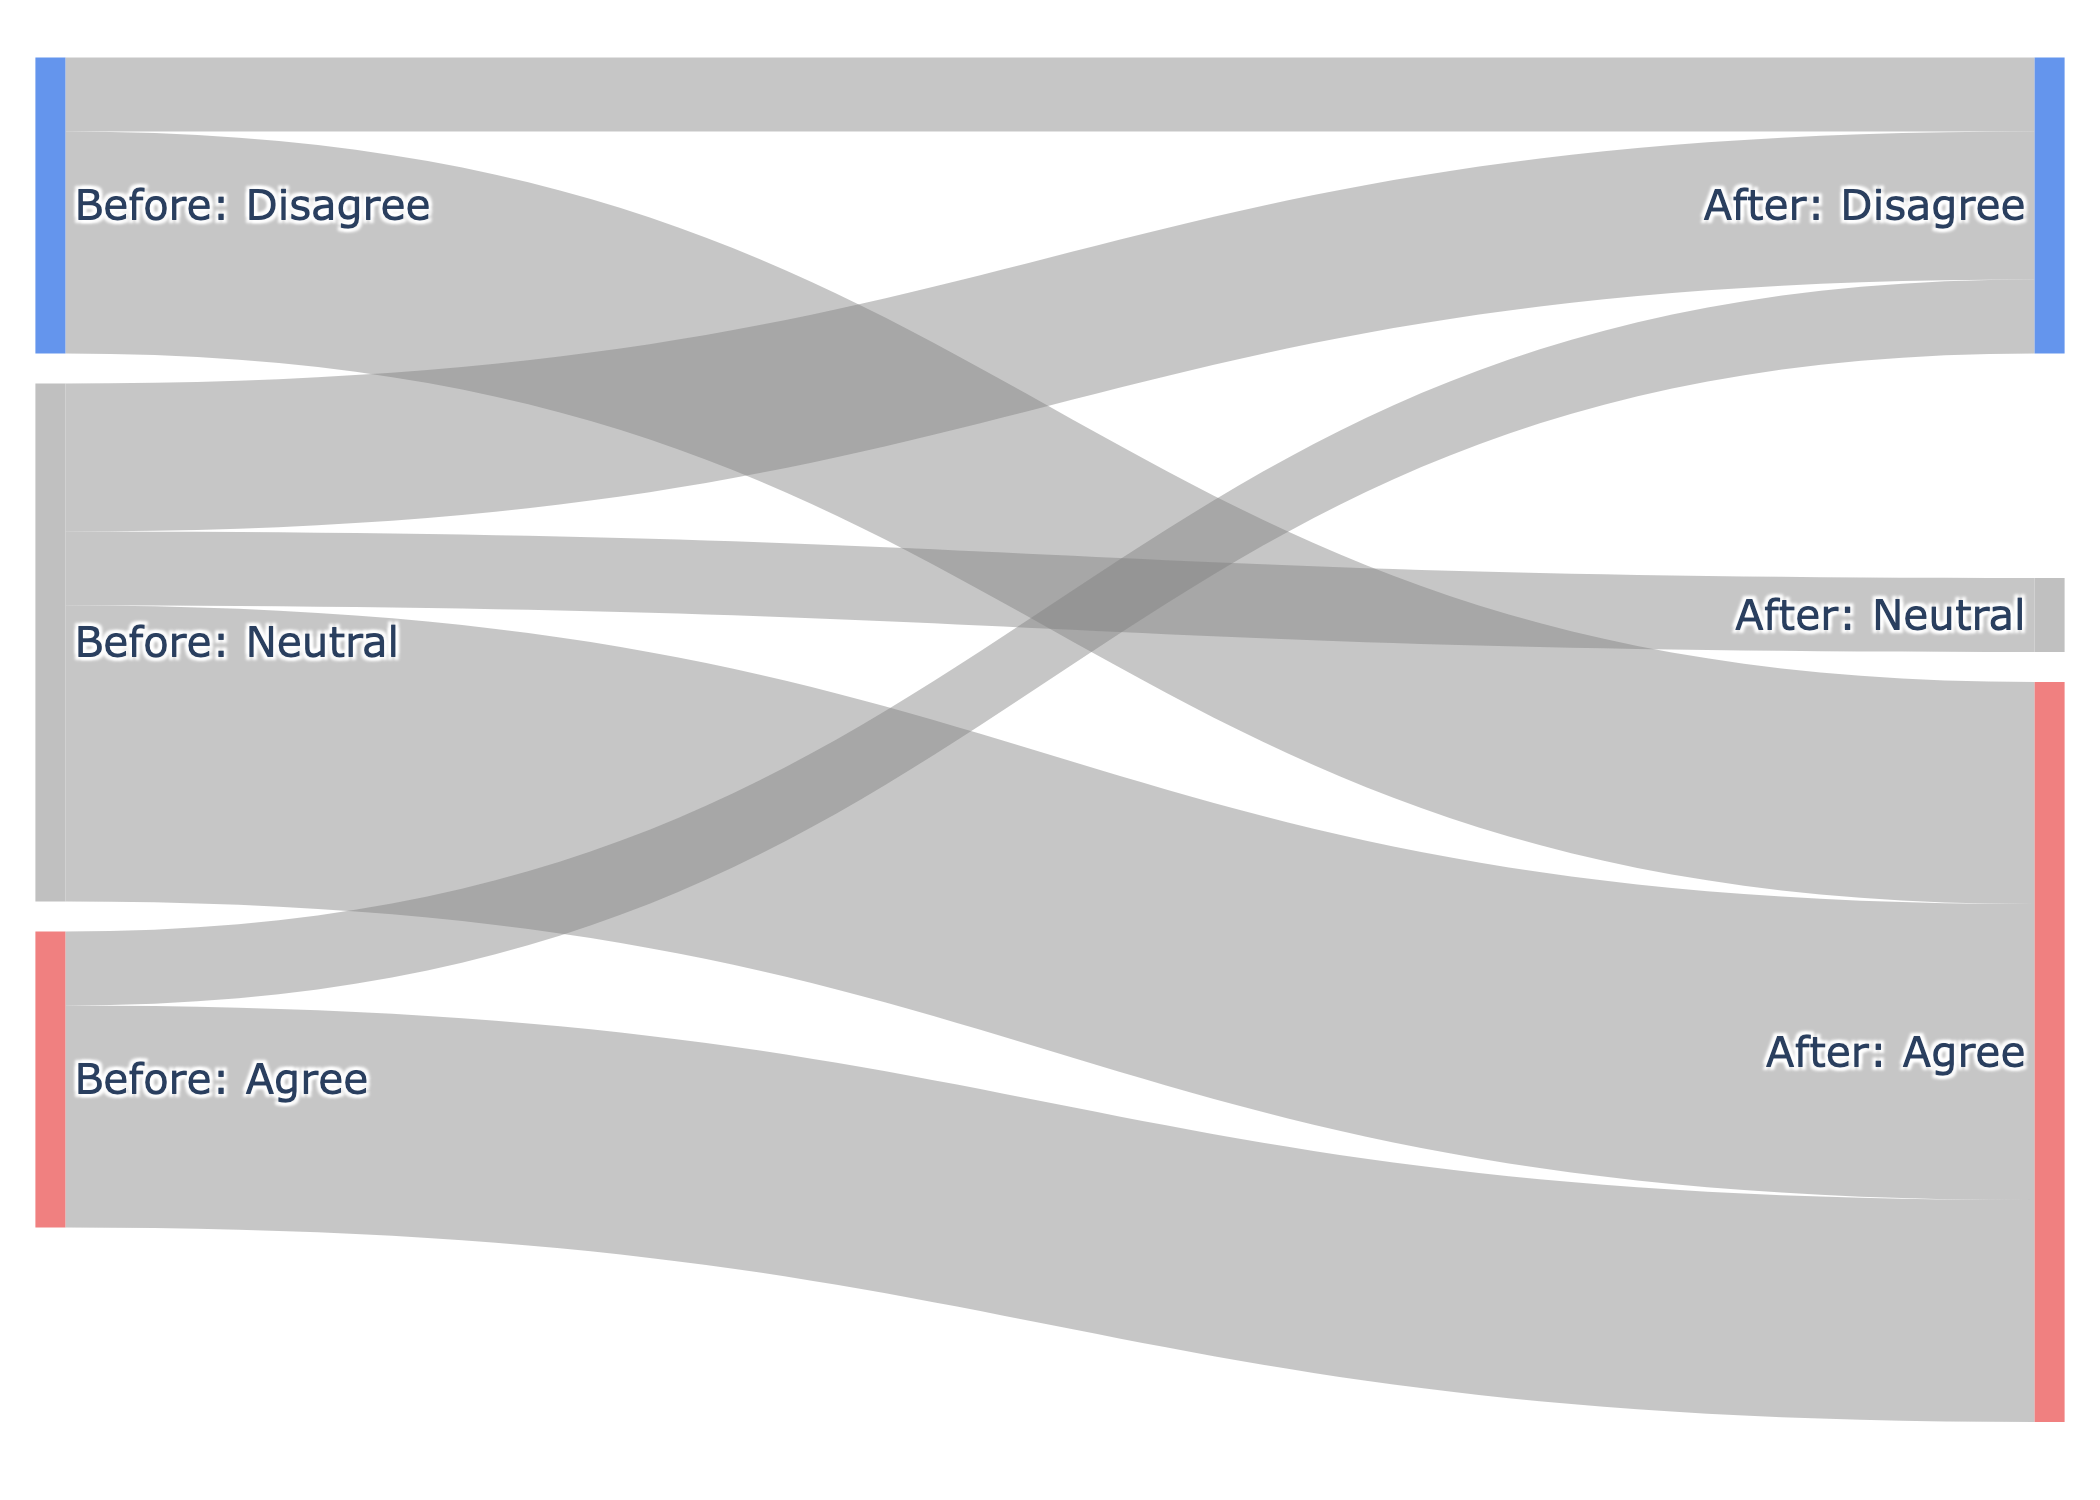
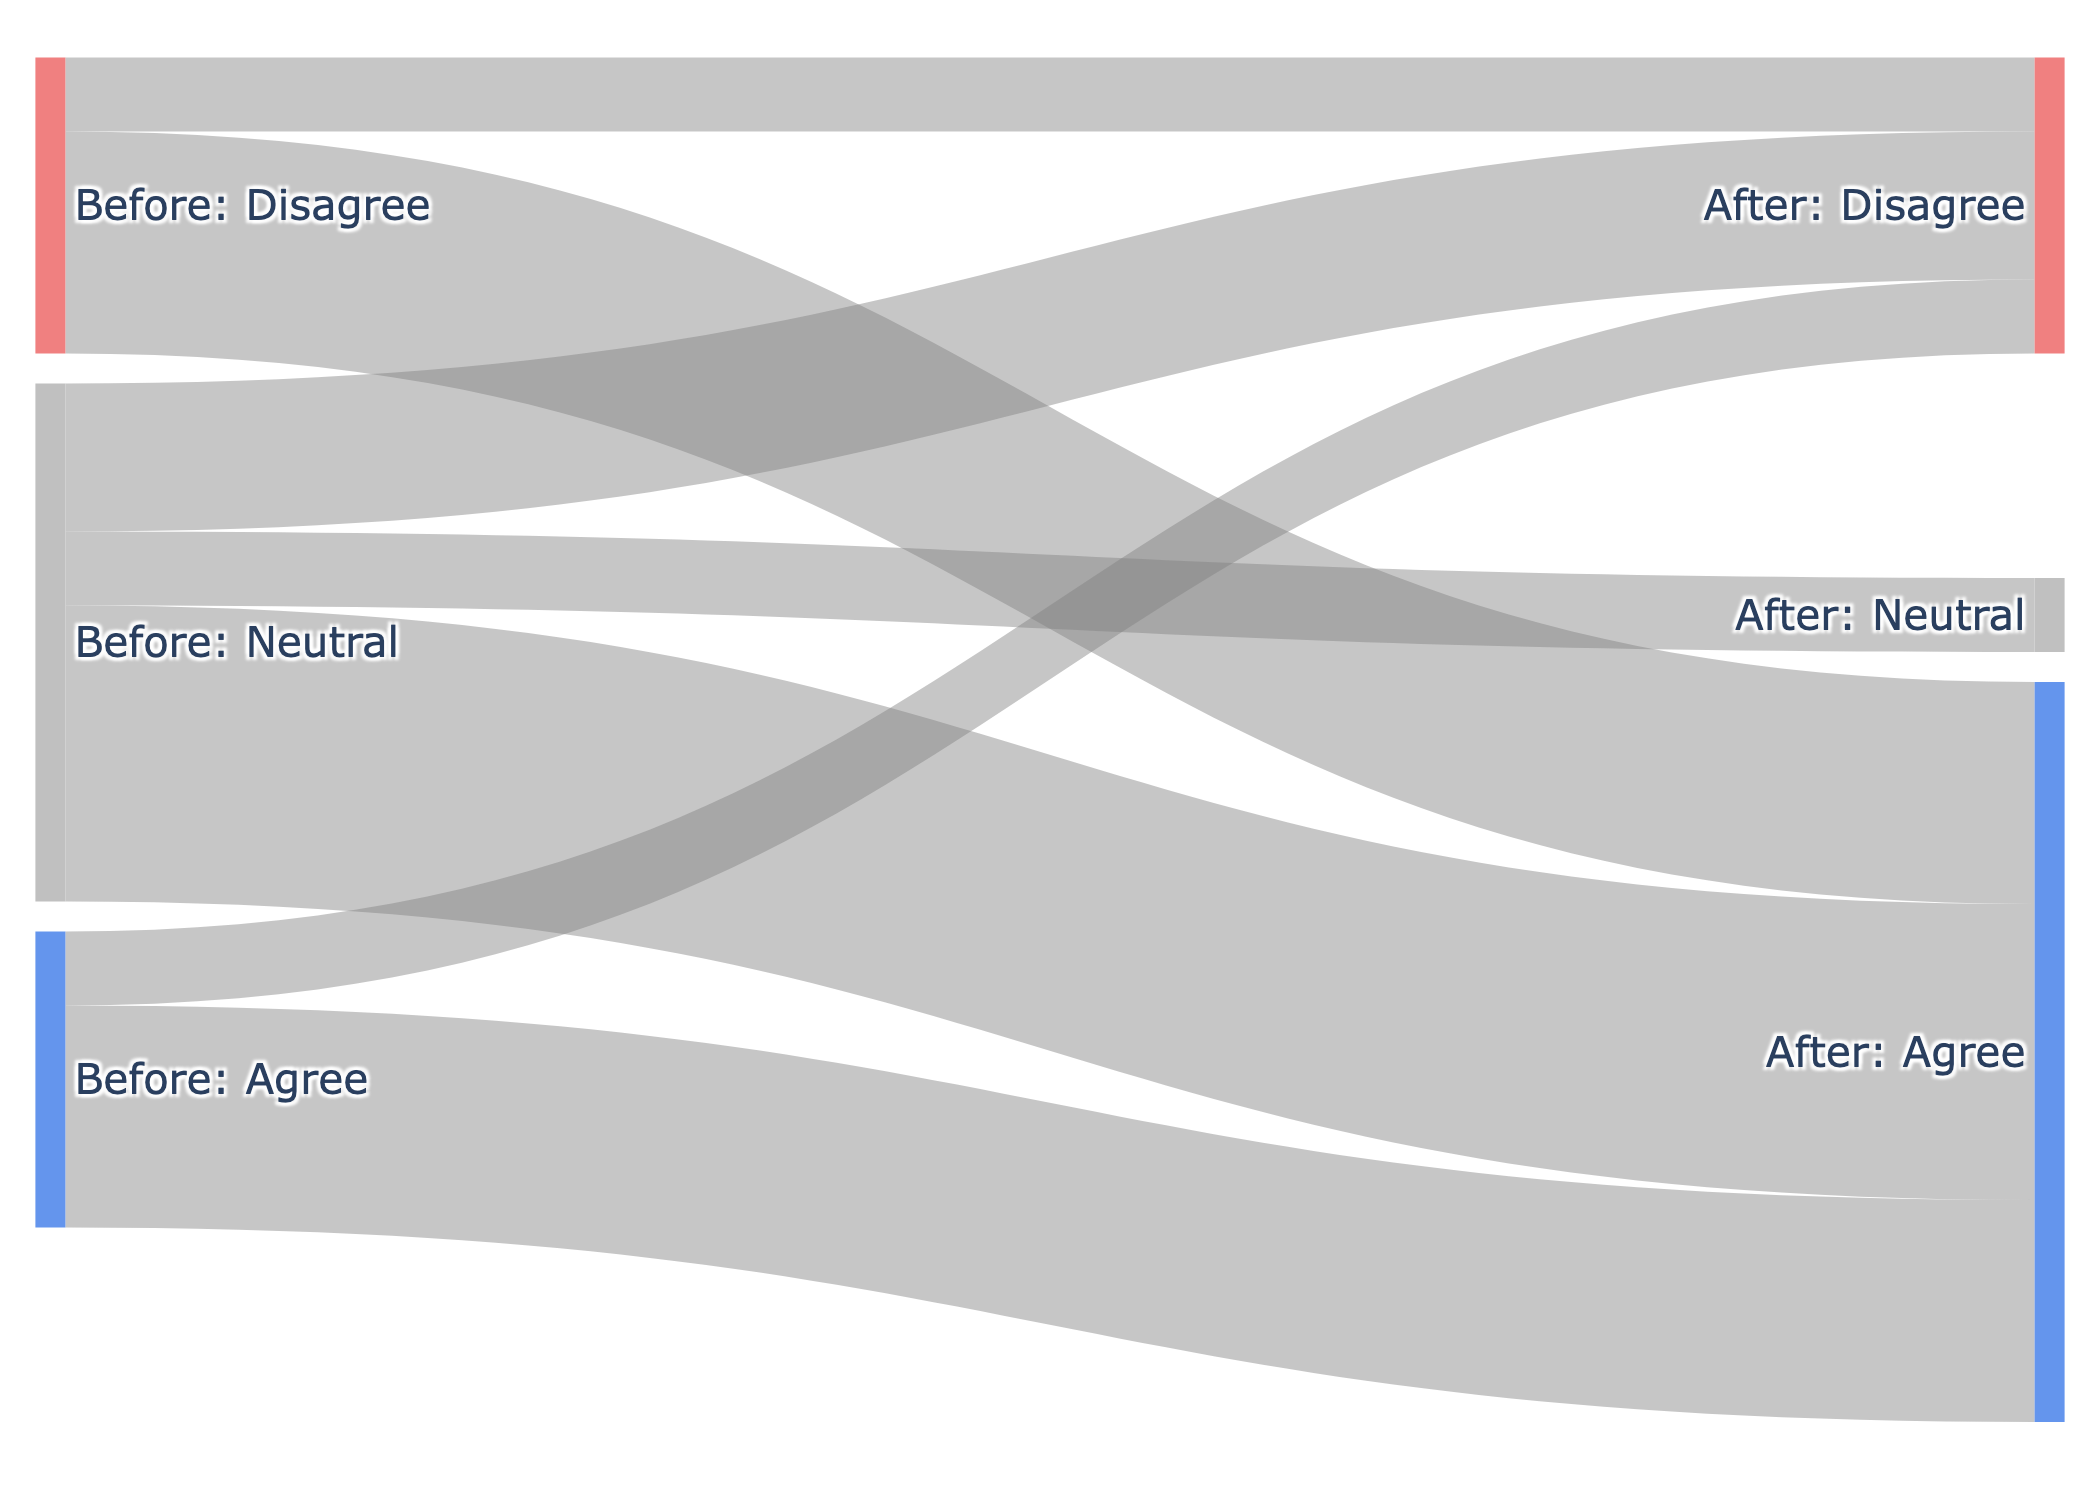
updated order 3x3

diff --git a/scripts/sankey.py b/scripts/sankey.py
@@ -169,8 +169,8 @@ def make_trust_sankey_3bin_ordered(p1: pd.DataFrame, p2: pd.DataFrame, out_dir: 
                 val.append(v)
 
     node_colors = (
-            ['#6495ED', '#C0C0C0', '#F08080'] +
-            ['#6495ED', '#C0C0C0', '#F08080']
+            ['#F08080', '#C0C0C0', '#6495ED'] +
+            ['#F08080', '#C0C0C0', '#6495ED']
     )
     # node_colors = (
     #     ['#F08080', '#C0C0C0', '#6495ED'] +
